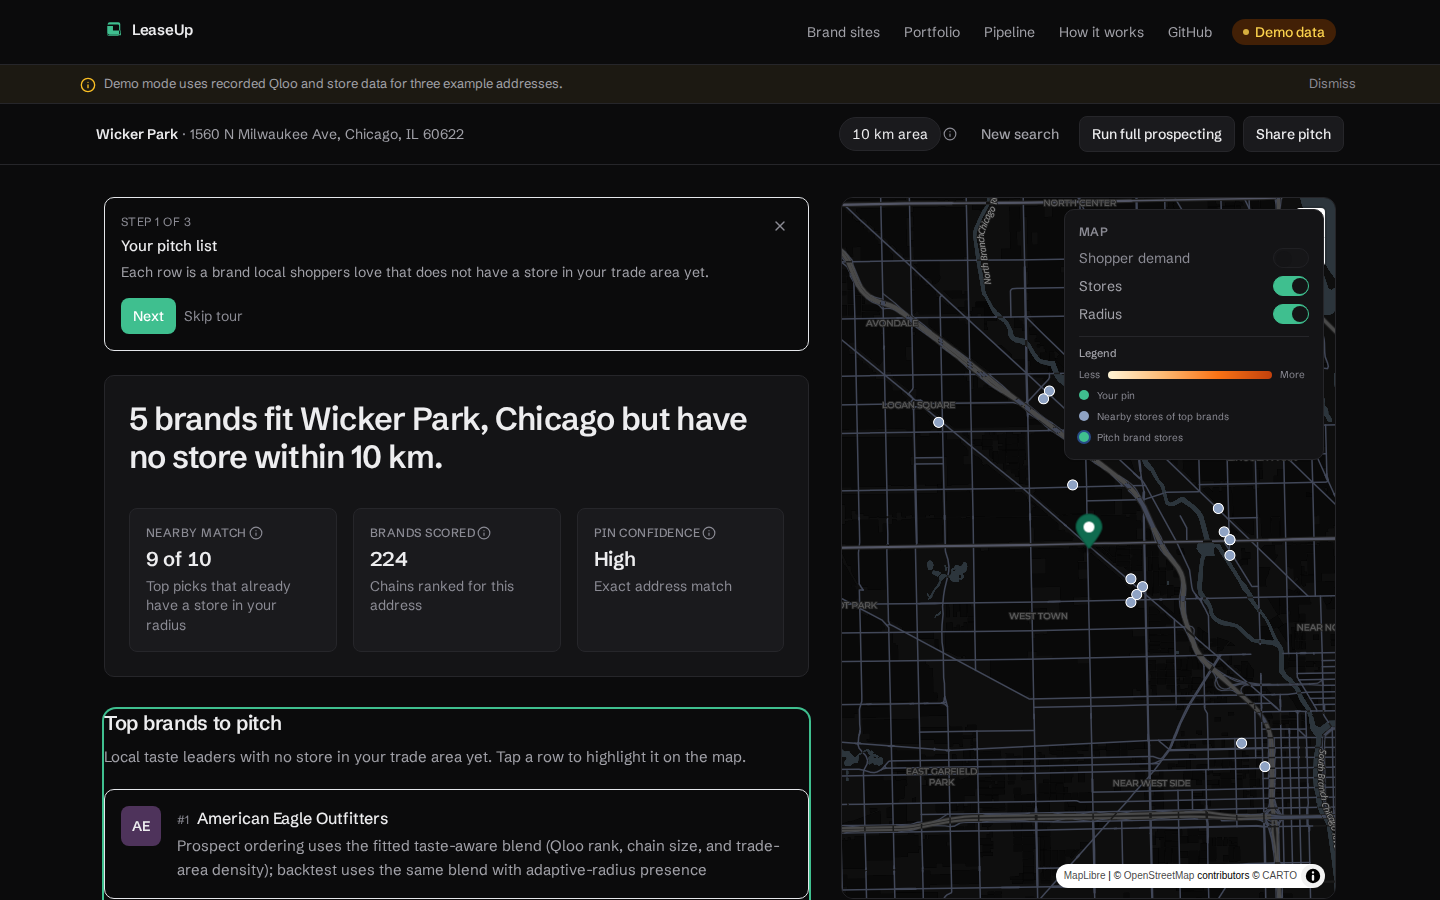
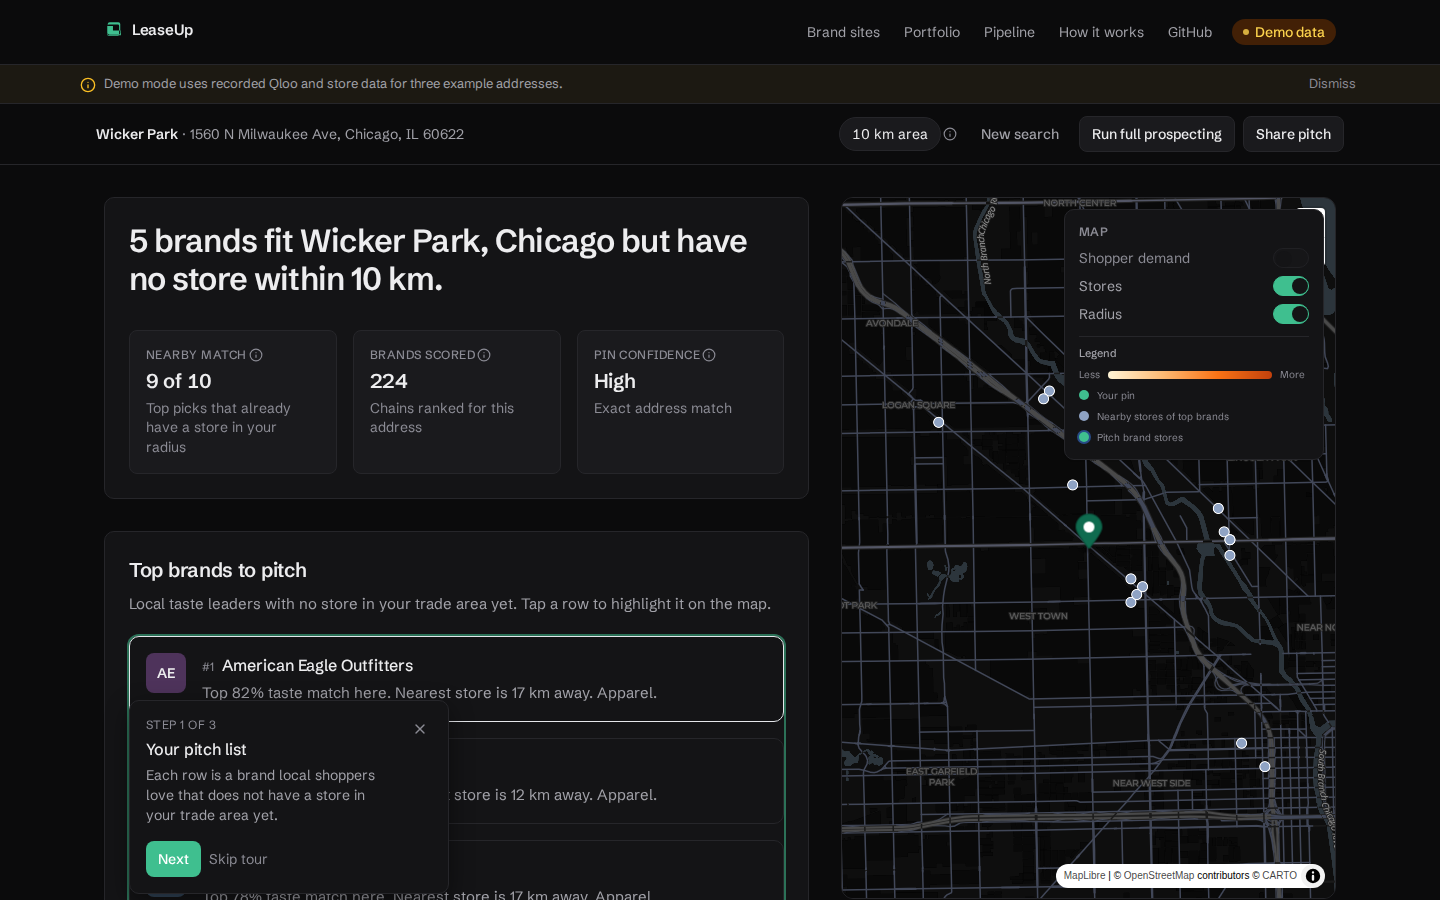
Polish report summary: broker reasons, card padding, tour popover
Build one-line brand reasons from taste rank, store distance, taste tags,
and category only. Wrap top brands in Card. Anchor first-run tour as a
fixed popover on the pitch list.

Changed region(s): [[0.0625, 0.56, 0.5625, 1.0], [0.0625, 0.2178, 0.5312, 0.5289], [0.2812, 0.56, 0.3438, 0.5911]]

diff --git a/apps/web/src/components/report/ReportFirstRunTour.tsx b/apps/web/src/components/report/ReportFirstRunTour.tsx
@@ -1,4 +1,5 @@
-import { useEffect, useState } from 'react';
+import { useEffect, useLayoutEffect, useState } from 'react';
+import { createPortal } from 'react-dom';
 import { X } from 'lucide-react';
 import { Button } from '../ui/Button';
 import { REPORT_TOUR_STORAGE_KEY } from '../../lib/broker-copy';
@@ -7,23 +8,36 @@ const STEPS = [
   {
     title: 'Your pitch list',
     body: 'Each row is a brand local shoppers love that does not have a store in your trade area yet.',
-    targetTestId: 'report-top-brands',
+    targetTestId: 'report-top-brands-list',
+    highlightTestId: 'report-top-brands-list',
   },
   {
     title: 'Why this brand',
     body: 'Select a row to see plain-language reasons and open the map for that chain.',
     targetTestId: 'why-this-brand',
+    highlightTestId: 'why-this-brand',
   },
   {
     title: 'Track outreach',
     body: 'Add strong fits to your pipeline so nothing falls through the cracks.',
     targetTestId: 'report-pipeline-cta',
+    highlightTestId: 'report-pipeline-cta',
   },
 ] as const;
+
+function highlightTarget(testId: string | undefined) {
+  document.querySelectorAll('[data-tour-active]').forEach((node) => {
+    node.removeAttribute('data-tour-active');
+  });
+  if (!testId) return;
+  const el = document.querySelector(`[data-testid="${testId}"]`);
+  el?.setAttribute('data-tour-active', 'true');
+}
 
 export function ReportFirstRunTour({ ready }: { ready: boolean }) {
   const [step, setStep] = useState(0);
   const [visible, setVisible] = useState(false);
+  const [popover, setPopover] = useState<{ top: number; left: number; width: number } | null>(null);
 
   useEffect(() => {
     if (!ready) return;
@@ -42,33 +56,57 @@ export function ReportFirstRunTour({ ready }: { ready: boolean }) {
       /* private mode */
     }
     setVisible(false);
+    highlightTarget(undefined);
   };
 
-  useEffect(() => {
-    document.querySelectorAll('[data-tour-active]').forEach((node) => {
-      node.removeAttribute('data-tour-active');
-    });
-    if (!visible) return;
-    const id = STEPS[step]?.targetTestId;
-    if (!id) return;
-    const el = document.querySelector(`[data-testid="${id}"]`);
-    el?.setAttribute('data-tour-active', 'true');
-    el?.scrollIntoView({ block: 'nearest', behavior: 'smooth' });
+  const placePopover = () => {
+    const current = STEPS[step] ?? STEPS[0];
+    const anchor = document.querySelector(`[data-testid="${current.targetTestId}"]`);
+    if (!anchor) {
+      setPopover(null);
+      return;
+    }
+    const rect = anchor.getBoundingClientRect();
+    const width = Math.min(320, window.innerWidth - 24);
+    let left = rect.left;
+    if (left + width > window.innerWidth - 12) {
+      left = window.innerWidth - width - 12;
+    }
+    left = Math.max(12, left);
+    const top = Math.min(rect.bottom + 10, window.innerHeight - 200);
+    setPopover({ top, left, width });
+    highlightTarget(current.highlightTestId);
+  };
+
+  useLayoutEffect(() => {
+    if (!visible) {
+      highlightTarget(undefined);
+      setPopover(null);
+      return;
+    }
+    placePopover();
+    const onLayout = () => placePopover();
+    window.addEventListener('resize', onLayout);
+    window.addEventListener('scroll', onLayout, true);
     return () => {
-      el?.removeAttribute('data-tour-active');
+      window.removeEventListener('resize', onLayout);
+      window.removeEventListener('scroll', onLayout, true);
+      highlightTarget(undefined);
     };
   }, [step, visible]);
 
-  if (!visible) return null;
+  if (!visible || !popover) return null;
 
   const current = STEPS[step] ?? STEPS[0];
   const isLast = step >= STEPS.length - 1;
 
-  return (
+  return createPortal(
     <div
-      className="no-print rounded-card border border-accent/30 bg-accent-soft/40 p-4 shadow-sm transition-opacity duration-200"
+      className="no-print fixed z-[60] rounded-card border border-border bg-surface p-4 shadow-pop"
+      style={{ top: popover.top, left: popover.left, width: popover.width }}
       data-testid="report-first-run-tour"
-      role="region"
+      role="dialog"
+      aria-modal="false"
       aria-label="Quick tour"
     >
       <div className="flex items-start justify-between gap-3">
@@ -76,8 +114,8 @@ export function ReportFirstRunTour({ ready }: { ready: boolean }) {
           <p className="text-label uppercase text-ink-3">
             Step {step + 1} of {STEPS.length}
           </p>
-          <p className="mt-1 font-medium text-ink">{current.title}</p>
-          <p className="mt-1 text-sm text-ink-2">{current.body}</p>
+          <p className="mt-1 font-medium text-body-lg text-ink">{current.title}</p>
+          <p className="mt-1 text-small text-ink-2">{current.body}</p>
         </div>
         <button
           type="button"
@@ -106,12 +144,13 @@ export function ReportFirstRunTour({ ready }: { ready: boolean }) {
         )}
         <button
           type="button"
-          className="text-sm text-ink-3 underline-offset-2 transition-colors duration-150 hover:text-ink hover:underline focus-visible:outline-none focus-visible:ring-2 focus-visible:ring-accent rounded-control"
+          className="rounded-control text-small text-ink-3 underline-offset-2 transition-colors duration-150 hover:text-ink hover:underline focus-visible:outline-none focus-visible:ring-2 focus-visible:ring-accent"
           onClick={dismiss}
         >
           Skip tour
         </button>
       </div>
-    </div>
+    </div>,
+    document.body
   );
 }

diff --git a/apps/web/src/__tests__/prospect-one-line.test.ts b/apps/web/src/__tests__/prospect-one-line.test.ts
@@ -2,31 +2,81 @@ import { describe, it, expect } from 'vitest';
 import { prospectOneLineReason } from '../lib/prospect-one-line';
 import type { AnalysisResponse, ProspectPack } from '@leaseup/contracts';
 
-const baseProspect = (overrides: Partial<ProspectPack> = {}): ProspectPack =>
-  ({
-    brand: {
-      entityId: 'a',
-      name: 'Test Brand',
-      affinity: 0.9,
-      affinityRank: 3,
-      verified: 'unverified',
-    },
-    outreachDraft: '',
-    reasons: [],
-    ...overrides,
-  }) as ProspectPack;
-
 const baseResults = {
-  rankings: [{ entityId: 'a', name: 'Test', affinity: 0.9, qlooRank: 1, blendedRank: 1, presentInRadius: false }],
+  rankings: Array.from({ length: 100 }, (_, i) => ({
+    entityId: `e${i}`,
+    name: `Brand ${i}`,
+    affinity: 0.5,
+    qlooRank: i + 1,
+    blendedRank: i + 1,
+    presentInRadius: false,
+  })),
 } as AnalysisResponse;
 
+function prospect(overrides: Partial<ProspectPack> & { brand?: Partial<ProspectPack['brand']> }): ProspectPack {
+  const { brand: brandOverrides, ...rest } = overrides;
+  return {
+    brand: {
+      entityId: 'brand-a',
+      name: 'Brand A',
+      affinity: 0.9,
+      affinityRank: 6,
+      verified: 'unverified',
+      ...brandOverrides,
+    },
+    outreachDraft: '',
+    reasons: [
+      'Prospect ordering uses the fitted taste-aware blend (Qloo rank, chain size, and trade-area density)',
+    ],
+    ...rest,
+  } as ProspectPack;
+}
+
 describe('prospectOneLineReason', () => {
-  it('prefers stored reasons when present', () => {
+  it('ignores methodology strings in reasons and builds from payload fields', () => {
     const line = prospectOneLineReason(
-      baseProspect({ reasons: ['Strong local fit for apparel.'] }),
+      prospect({
+        nearestExistingStoreKm: 12,
+        tenantMixScore: { score: 1, coAffinityMean: 1, categoryFit: 'Apparel', explanation: '' },
+      }),
       baseResults,
       10
     );
-    expect(line).toBe('Strong local fit for apparel.');
+    expect(line).toContain('Top 6% taste match here');
+    expect(line).toContain('Nearest store is 12 km away');
+    expect(line).toContain('Apparel');
+    expect(line).not.toContain('taste-aware blend');
+  });
+
+  it('produces different copy for two brands with different data', () => {
+    const a = prospectOneLineReason(
+      prospect({
+        brand: { entityId: 'a', name: 'Alpha', affinity: 0.9, affinityRank: 6, verified: 'unverified' },
+        nearestExistingStoreKm: 12,
+        tradeAreaTaste: { tags: [{ entityId: 't1', name: 'Streetwear', affinity: 0.8, affinityRank: 1 }], audiences: [] },
+      }),
+      baseResults,
+      10
+    );
+    const b = prospectOneLineReason(
+      prospect({
+        brand: {
+          entityId: 'b',
+          name: 'Beta',
+          affinity: 0.8,
+          affinityRank: 20,
+          verified: 'unverified',
+          tasteFitBeyondChainPercentile: 18,
+        },
+        nearestExistingStoreKm: 4.2,
+        tenantMixScore: { score: 1, coAffinityMean: 1, categoryFit: 'Coffee', explanation: '' },
+      }),
+      baseResults,
+      10
+    );
+    expect(a).not.toBe(b);
+    expect(a).toContain('Streetwear');
+    expect(b).toContain('Top 18% taste match here');
+    expect(b).toContain('Coffee');
   });
 });

diff --git a/apps/web/src/lib/prospect-one-line.ts b/apps/web/src/lib/prospect-one-line.ts
@@ -1,14 +1,43 @@
 import type { AnalysisResponse, ProspectPack } from '@leaseup/contracts';
-import { whyBrandBulletLines } from './why-brand-lines';
+import { brandCategoryLabel } from './brand-category';
+import { fitTopPercent } from './fit-display';
 
-/** Plain one-line reason for summary lists; uses stored outreach reasons when present. */
+/** Broker-facing one-line summary built only from fields on the prospect payload. */
 export function prospectOneLineReason(
   prospect: ProspectPack,
   results: AnalysisResponse,
-  radiusKm: number
+  _radiusKm: number
 ): string {
-  const fromReasons = prospect.reasons?.find((r) => r.trim().length > 0);
-  if (fromReasons) return fromReasons;
-  const lines = whyBrandBulletLines(prospect, results, radiusKm);
-  return lines[0] ?? 'Local taste fit for this trade area.';
+  const parts: string[] = [];
+  const totalScored = results.rankings?.length ?? 0;
+  const rank = prospect.brand.affinityRank;
+  const beyondChain = prospect.brand.tasteFitBeyondChainPercentile;
+
+  if (beyondChain !== undefined) {
+    parts.push(`Top ${beyondChain}% taste match here`);
+  } else if (totalScored > 0 && rank > 0) {
+    parts.push(`Top ${fitTopPercent(rank, totalScored)}% taste match here`);
+  }
+
+  if (prospect.nearestExistingStoreKm !== undefined) {
+    const km = prospect.nearestExistingStoreKm;
+    const label = km < 10 ? km.toFixed(1) : String(Math.round(km));
+    parts.push(`Nearest store is ${label} km away`);
+  }
+
+  const taste = prospect.tradeAreaTaste;
+  const tasteSignal = taste?.tags?.[0] ?? taste?.audiences?.[0];
+  if (tasteSignal?.name?.trim()) {
+    parts.push(`Shoppers here over-index for ${tasteSignal.name.trim()}`);
+  }
+
+  const category =
+    prospect.tenantMixScore?.categoryFit?.trim() ||
+    brandCategoryLabel(prospect.brand.entityId);
+  if (category) {
+    parts.push(category);
+  }
+
+  if (parts.length === 0) return '';
+  return `${parts.join('. ')}.`;
 }

diff --git a/apps/web/src/components/report/ReportSummaryAboveFold.tsx b/apps/web/src/components/report/ReportSummaryAboveFold.tsx
@@ -1,5 +1,6 @@
 import type { AnalysisRequest, AnalysisResponse, ProspectPack } from '@leaseup/contracts';
 import { Button } from '../ui/Button';
+import { Card } from '../ui/Card';
 import { HeadlineCard } from './HeadlineCard';
 import { displayBrandName } from '../../lib/brand-display';
 import { prospectOneLineReason } from '../../lib/prospect-one-line';
@@ -43,12 +44,12 @@ export function ReportSummaryAboveFold({
       />
 
       {topFive.length > 0 && (
-        <div data-testid="report-top-brands">
+        <Card data-testid="report-top-brands" className="print-pitch-block">
           <h3 className="font-display text-h3 font-semibold text-ink">Top brands to pitch</h3>
           <p className="mt-2 text-body text-ink-2">
             Local taste leaders with no store in your trade area yet. Tap a row to highlight it on the map.
           </p>
-          <ol className="mt-5 space-y-4">
+          <ol className="mt-5 space-y-4" data-testid="report-top-brands-list">
             {topFive.map((prospect, index) => {
               const name = displayBrandName(prospect.brand.entityId, prospect.brand.name);
               const reason = prospectOneLineReason(prospect, results, radiusKm);
@@ -78,7 +79,7 @@ export function ReportSummaryAboveFold({
               );
             })}
           </ol>
-        </div>
+        </Card>
       )}
 
       <div

diff --git a/apps/web/src/pages/ReportPage.tsx b/apps/web/src/pages/ReportPage.tsx
@@ -223,7 +223,6 @@ export function ReportPage() {
     <div className="report-content-enter space-y-8 text-body">
       <ErrorBoundary fallback={<SectionUnavailable />}>
         <div className="print-pitch-block space-y-6">
-          <ReportFirstRunTour ready={results.prospects.length > 0} />
           <ReportSummaryAboveFold
             results={results}
             request={request}
@@ -534,6 +533,9 @@ export function ReportPage() {
           prospect={outreach}
           results={results}
         />
+      )}
+      {results && (
+        <ReportFirstRunTour ready={results.prospects.length > 0} />
       )}
       <footer className="no-print py-8 text-center text-meta text-ink-3">
         <Link to="/" className="text-accent hover:underline">Back to search</Link>

diff --git a/apps/web/src/index.css b/apps/web/src/index.css
@@ -13,8 +13,8 @@
   }
 
   [data-tour-active='true'] {
-    box-shadow: 0 0 0 2px var(--accent);
-    border-radius: 12px;
+    box-shadow: 0 0 0 2px color-mix(in srgb, var(--accent) 55%, transparent);
+    border-radius: var(--radius-card);
     transition: box-shadow 175ms ease;
   }
 }
